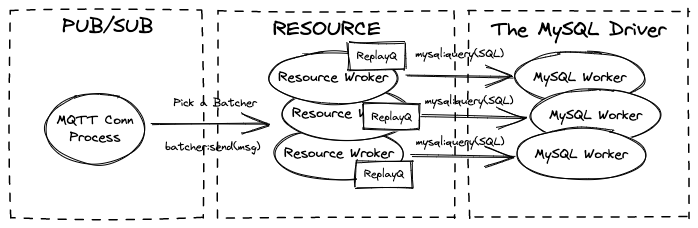
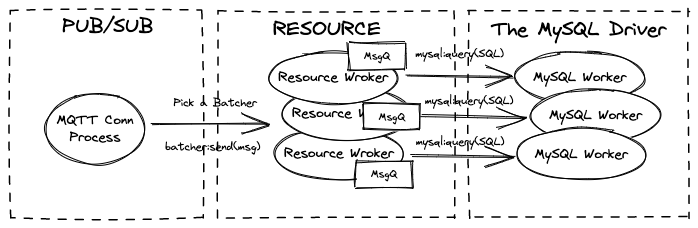
fix(0021): change replayq to msg_q in the diagrams

Changed region(s): [[0.4814, 0.7368, 0.6017, 0.7982], [0.5115, 0.4912, 0.6017, 0.5526], [0.5115, 0.2149, 0.5716, 0.2763]]

diff --git a/active/0021-msg-batch-for-resources.md b/active/0021-msg-batch-for-resources.md
@@ -32,8 +32,7 @@ In emqx 4.x and previous versions, only 2 drivers implemented the message queue,
 Before this change, the batching mechanism is implemented by each driver.
 
 Taking the MySQL as an example, we added a pool of `batcher` processes in front of the MySQL driver.
-And if we want to queue the message locally before sending SQL queries, we have to add `replayq` to each of the `mysql worker`.
-This is shown by the following figure:
+And if we want to queue the message locally before sending SQL queries, we have to add message queue to each of the `mysql worker`. This is shown by the following figure:
 
 ![Old Batching](0021-assets/old_batch_process.png)
 
@@ -55,7 +54,7 @@ The messages are first saved by the worker to the queue (which can be memory or 
 
 Here is the sequences for querying a resource after the resource workers are added:
 
-![Resource Worker Sequences](0021-assets/resource-worker-sequences.drawio.png)
+![Resource Worker Sequences](0021-assets/resource_worker_sequences_solution1.drawio.png)
 
 - When creating the resource worker pool, we can specify the `max_batch_num`, `batch_interval` parameters to control the batching process.
 - Every time a caller calls the resource worker, it can specify `query_mode = sync | async` for control whether wait the result or not.
@@ -63,7 +62,7 @@ Here is the sequences for querying a resource after the resource workers are add
 An improved solution is to let the MQTT connection process append to the message queue directly, and then the resource worker (the consumer process) fetch messages from the queue:
 ![Resource Worker Sequences S2](0021-assets/resource_worker_sequences_solution2.drawio.png)
 
-This way we separate the producers (the MQTT connection processes) from the consumers (the resource workers). But for now the `replayq` doesn't support accessing by multiple modules concurrently, so we may need more works on it.
+This way we separate the producers (the MQTT connection processes) from the consumers (the resource workers). But for now the `replayq` doesn't support accessing by multiple modules concurrently, so we may need to refactor it for concurrent accessing, or use another underlying DB such as RocksDB.
 
 ### The Layers Before the Change
 
@@ -95,7 +94,7 @@ We suggest introduce the "resource workers" into the resource layer.
 So that the old resource layer is divided into two parts: "resource workers" and "resource management". 
 
 The "resource workers" is a pool maintains several worker processes.
-It is the component for querying external resources, maintaining the message queue (`replayq`), and sending the messages to the drivers. 
+It is the component for querying external resources, maintaining the message queue, and sending the messages to the drivers. 
 
 The "resource management" part is the old resource layer, and remains unchanged as before, which is responsible for resource management operations.
 
@@ -109,11 +108,18 @@ The "resource management" part is the old resource layer, and remains unchanged 
 
 ### RocksDB vs. ReplayQ
 
-There are two choices to implement the message queue. One is the mnesia database using RocksDB as the backend, and the other is the [replayq](https://github.com/emqx/replayq).
+There are two choices to implement the message queue. One is the mnesia database using [RocksDB](https://github.com/emqx/erlang-rocksdb) as the backend, and the other is the [ReplayQ](https://github.com/emqx/replayq).
 
-We prefer the `replayq`, mainly because in this feature messages are always added and accessed in a queue, we never access data by primary keys like a KV database. This is exactly the applicable scenario of `replayq`. The data files will be stored in the specified directory of the local file system, which is very simple.
+The `ReplayQ` is a simple disk/mem queue based on segment files. It was first added to the EMQX's Kafka driver in 2018, it has experienced several emqx versions and has been proved to be very stable.
 
-The `replayq` was added to the Erlang Kafka driver in 2018, it has experienced several emqx versions and has been proved to be very stable.
+The `RocksDB` was added into emqx 5.0 as the backend of mneisa, it is a NIF of the upstream RocksDB written in C (https://github.com/facebook/rocksdb).
+
+The persistent message queue feature is exactly the applicable scenario of `ReplayQ`, as messages are always added and accessed in a FIFO manner, we never access data by primary keys like a KV database. 
+The data files will be stored in the specified directory of the local file system, which is very simple.
+
+But there's some limitations in `ReplayQ`, mainly because it is a simple queue maintained in a single erlang process, it doesn't support concurrently accessing by multiple processes. So we may need some work to improve that.
+
+Another way is implement a persistent queue based on RocksDB. It also need some more works.
 
 ## Configuration Changes
 
